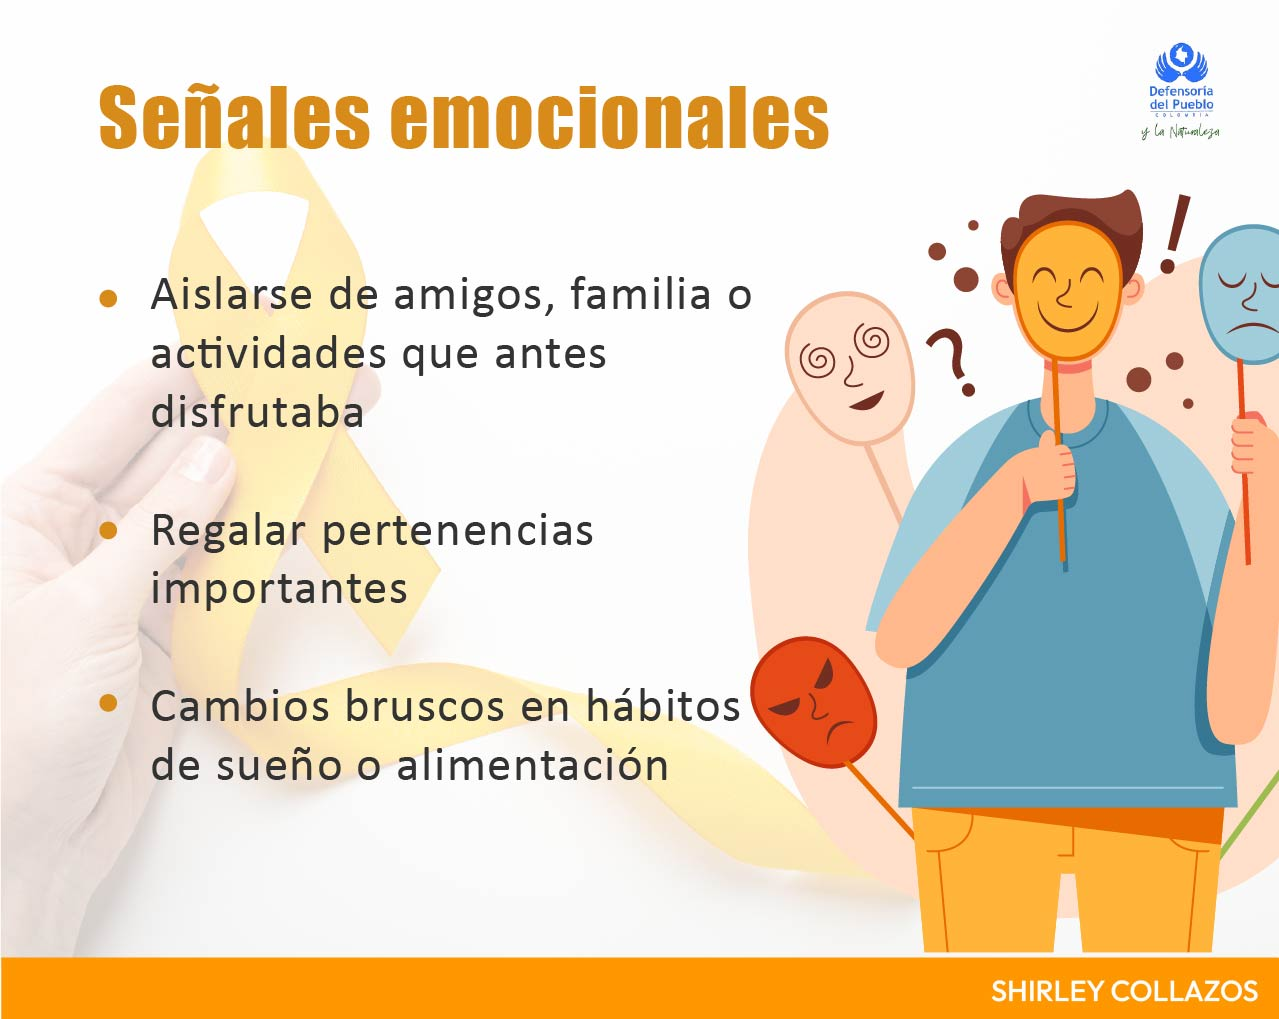
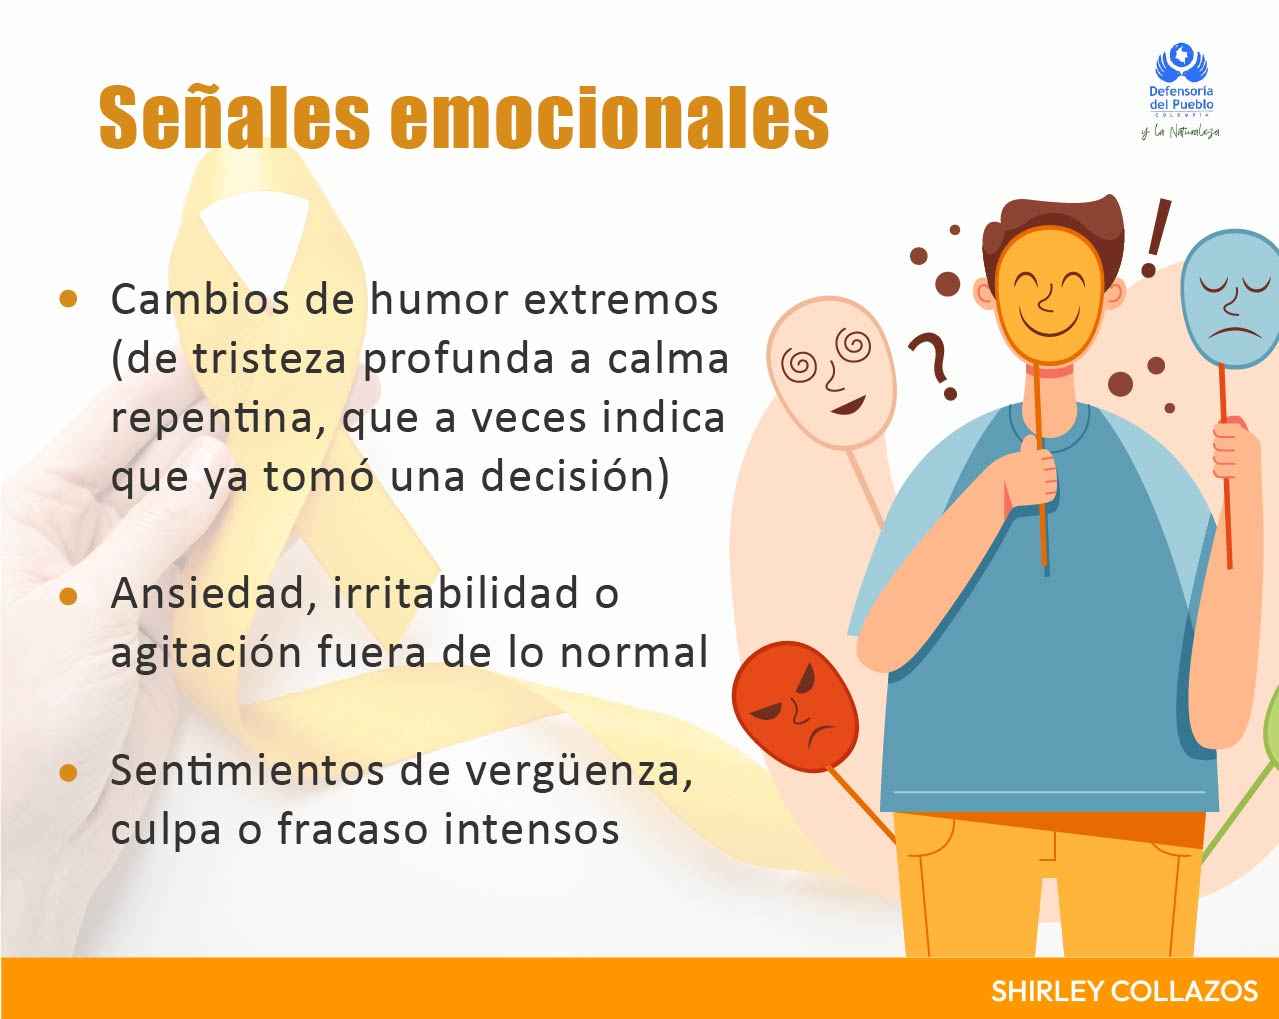
Update slide 6 image (v2.8.1)

diff --git a/index.html b/index.html
@@ -371,7 +371,7 @@
 <body>
 
   <div id="viewer"></div>
-  <div id="version">v2.8.0</div>
+  <div id="version">v2.8.1</div>
   <div id="counter"></div>
   <div id="nav">
     <button id="prev-btn" class="nav-btn" title="Anterior">‹</button>

diff --git a/CHANGELOG.md b/CHANGELOG.md
@@ -1,5 +1,8 @@
 # Registro de versiones
 
+## v2.8.1 — 2026-09-08
+- Actualización de la imagen de la diapositiva 6 (`6.jpg`).
+
 ## v2.8.0 — 2026-09-08
 - Botones de navegación más grandes y alargados (píldora), con más contraste y menos transparencia cuando están deshabilitados, para que nunca se pierdan contra el fondo.
 - Tutorial animado al cargar la página: resalta uno por uno el botón anterior, siguiente y pantalla completa con un anillo pulsante, una mano que "toca" y una etiqueta explicando su función. Se puede saltar.
